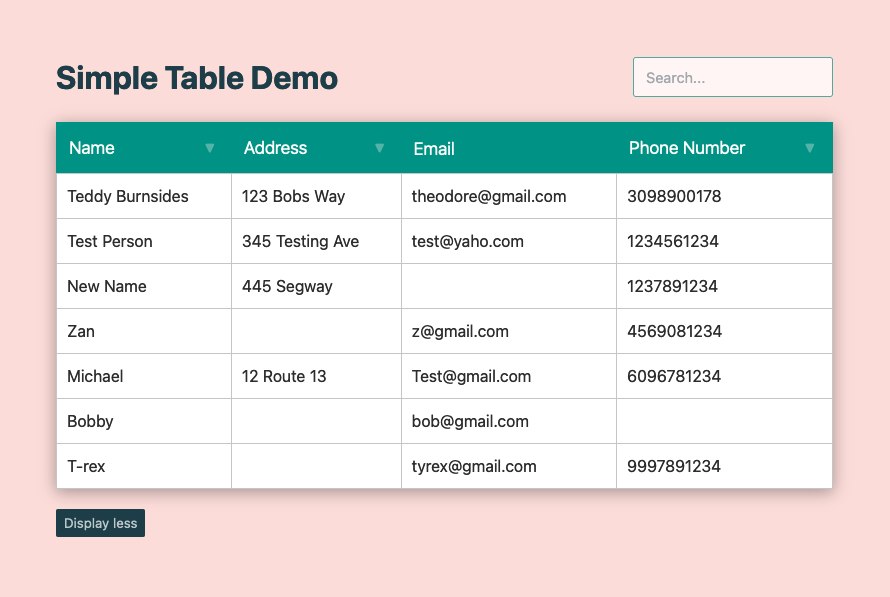
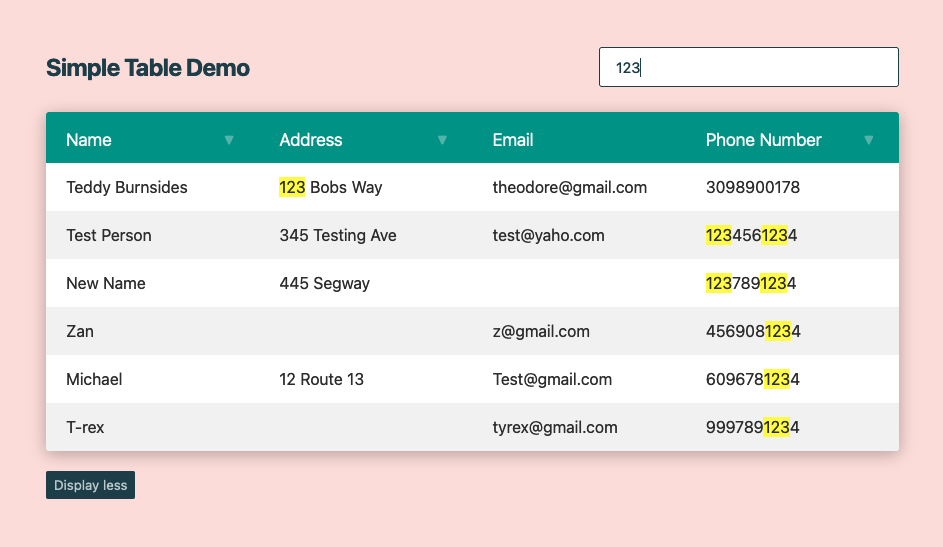
Improved styling, error handling, new screenshot

diff --git a/src/App.tsx b/src/App.tsx
@@ -22,13 +22,13 @@ const App = () => {
       }
     ],
     rows: [
-      ['Teddy Burnsides', '123 Bobs Way', 'theodore@gmail.com', '3098900178'],
-      ['Test Person', '345 Testing Ave', 'test@yaho.com', '1234561234'],
-      ['New Name', '445 Segway', '', '1237891234'],
-      ['Zan','', 'z@gmail.com','4569081234'],
-      ['Michael','12 Route 13', 'Test@gmail.com','6096781234'],
-      ['Bobby', '', 'bob@gmail.com', ''],
-      ['T-rex', '', 'tyrex@gmail.com', '9997891234']
+      ['Rufus Garrett ', '123 Alice Way', 'rufus@simpletable.com', '309-789-1234'],
+      ['Ramona Parker', '345 Testing Ave', 'test@yaho.com', '123-456-1234'],
+      ['Freda Watson', '445 Segway', '', '123-789-1234'],
+      ['Jeff Peters ','124 Willow Pathway', 'jeff@simpletable.com','456-908-1234'],
+      ['Jessica Fowler','12 Route 5', 'jessica@simpletable.com','609-678-1234'],
+      ['Terrell Kennedy ', '77 Oak Street', 'terrell@simpletable.com', ''],
+      ['Alonzo Curtis', '', 'tyrex@simpletable.com', '999-789-1234']
     ],
     maxRows: 3,
     sortButtonText: {

diff --git a/src/simpleTable/SimpleTable.tsx b/src/simpleTable/SimpleTable.tsx
@@ -1,7 +1,7 @@
 import TableHeader from './TableHeader';
 import TableBody from './TableBody';
 import TableFooter from './TableFooter';
-import SearchTable from './SearchTable';
+import SearchField from './SearchField';
 import { useState } from 'react';
 import { Itable } from './types/interfaces';
 import { debounce, initColumnSortData, resetSortInfo } from './utils';
@@ -35,7 +35,7 @@ const SimpleTable = ({data}: Itable) => {
 		<>
 			<div id="tools">
 				<h1>{data.title}</h1>
-				<SearchTable
+				<SearchField
 					triggerSearch={triggerSearch}
 					enabled={data.enableSearch}
 				/>

diff --git a/src/simpleTable/utils.tsx b/src/simpleTable/utils.tsx
@@ -46,6 +46,11 @@ export const findMatchingValueIndexes = (text: string,search: string) => {
 		// loop through search phrase
 		for (let searchPos=0; searchPos<search.length&&!moveToNextLetter; searchPos++) {
 
+			// don't search past the end of a word (and cause an undefined array index error)
+			if (textPos+searchPos>=text.length) {
+				moveToNextLetter=true;
+				break;
+			}
 			// if value does not match, move to next letter in phrase to continue searching for string
 			if (text[textPos+searchPos].toLowerCase() !== search[searchPos].toLowerCase()) {
 				moveToNextLetter=true; 

diff --git a/src/App.css b/src/App.css
@@ -54,7 +54,7 @@ h1 {
   padding:0;
   line-height:40px;
   margin:0;
-  font-size:18pt;
+  font-size:16pt;
   letter-spacing:-.5px;
 }
 #tools {
@@ -64,19 +64,20 @@ h1 {
 }
 input[type="search"] {
   background:#fff;
-  border:1px solid #264653;
+  border:1px solid #B6A4A1;
   padding:8px 16px;
   font-size:11pt;
   margin:0;
   width:300px;
   color:#264653;
   border-radius:3px;
-  opacity:.7;
   height:40px;
+  background:#f9f5f4;
 }
 input[type="search"]:focus {
-  opacity:1;
   outline:none;
+  background:#fff;
+  border-color:#9F8F8D;
 }
 table {
   border-collapse: separate;

diff --git a/src/simpleTable/SearchField.tsx b/src/simpleTable/SearchField.tsx
@@ -1,7 +1,7 @@
 import { useState } from "react";
 import { IsearchTable } from "./types/interfaces";
 
-const SearchTable = ({triggerSearch, enabled}: IsearchTable) => {
+const SearchField = ({triggerSearch, enabled}: IsearchTable) => {
 
 	const [searchValue, setSearchValue] = useState('');
 
@@ -24,4 +24,4 @@ const SearchTable = ({triggerSearch, enabled}: IsearchTable) => {
 	}
 }
 
-export default SearchTable;
+export default SearchField;
